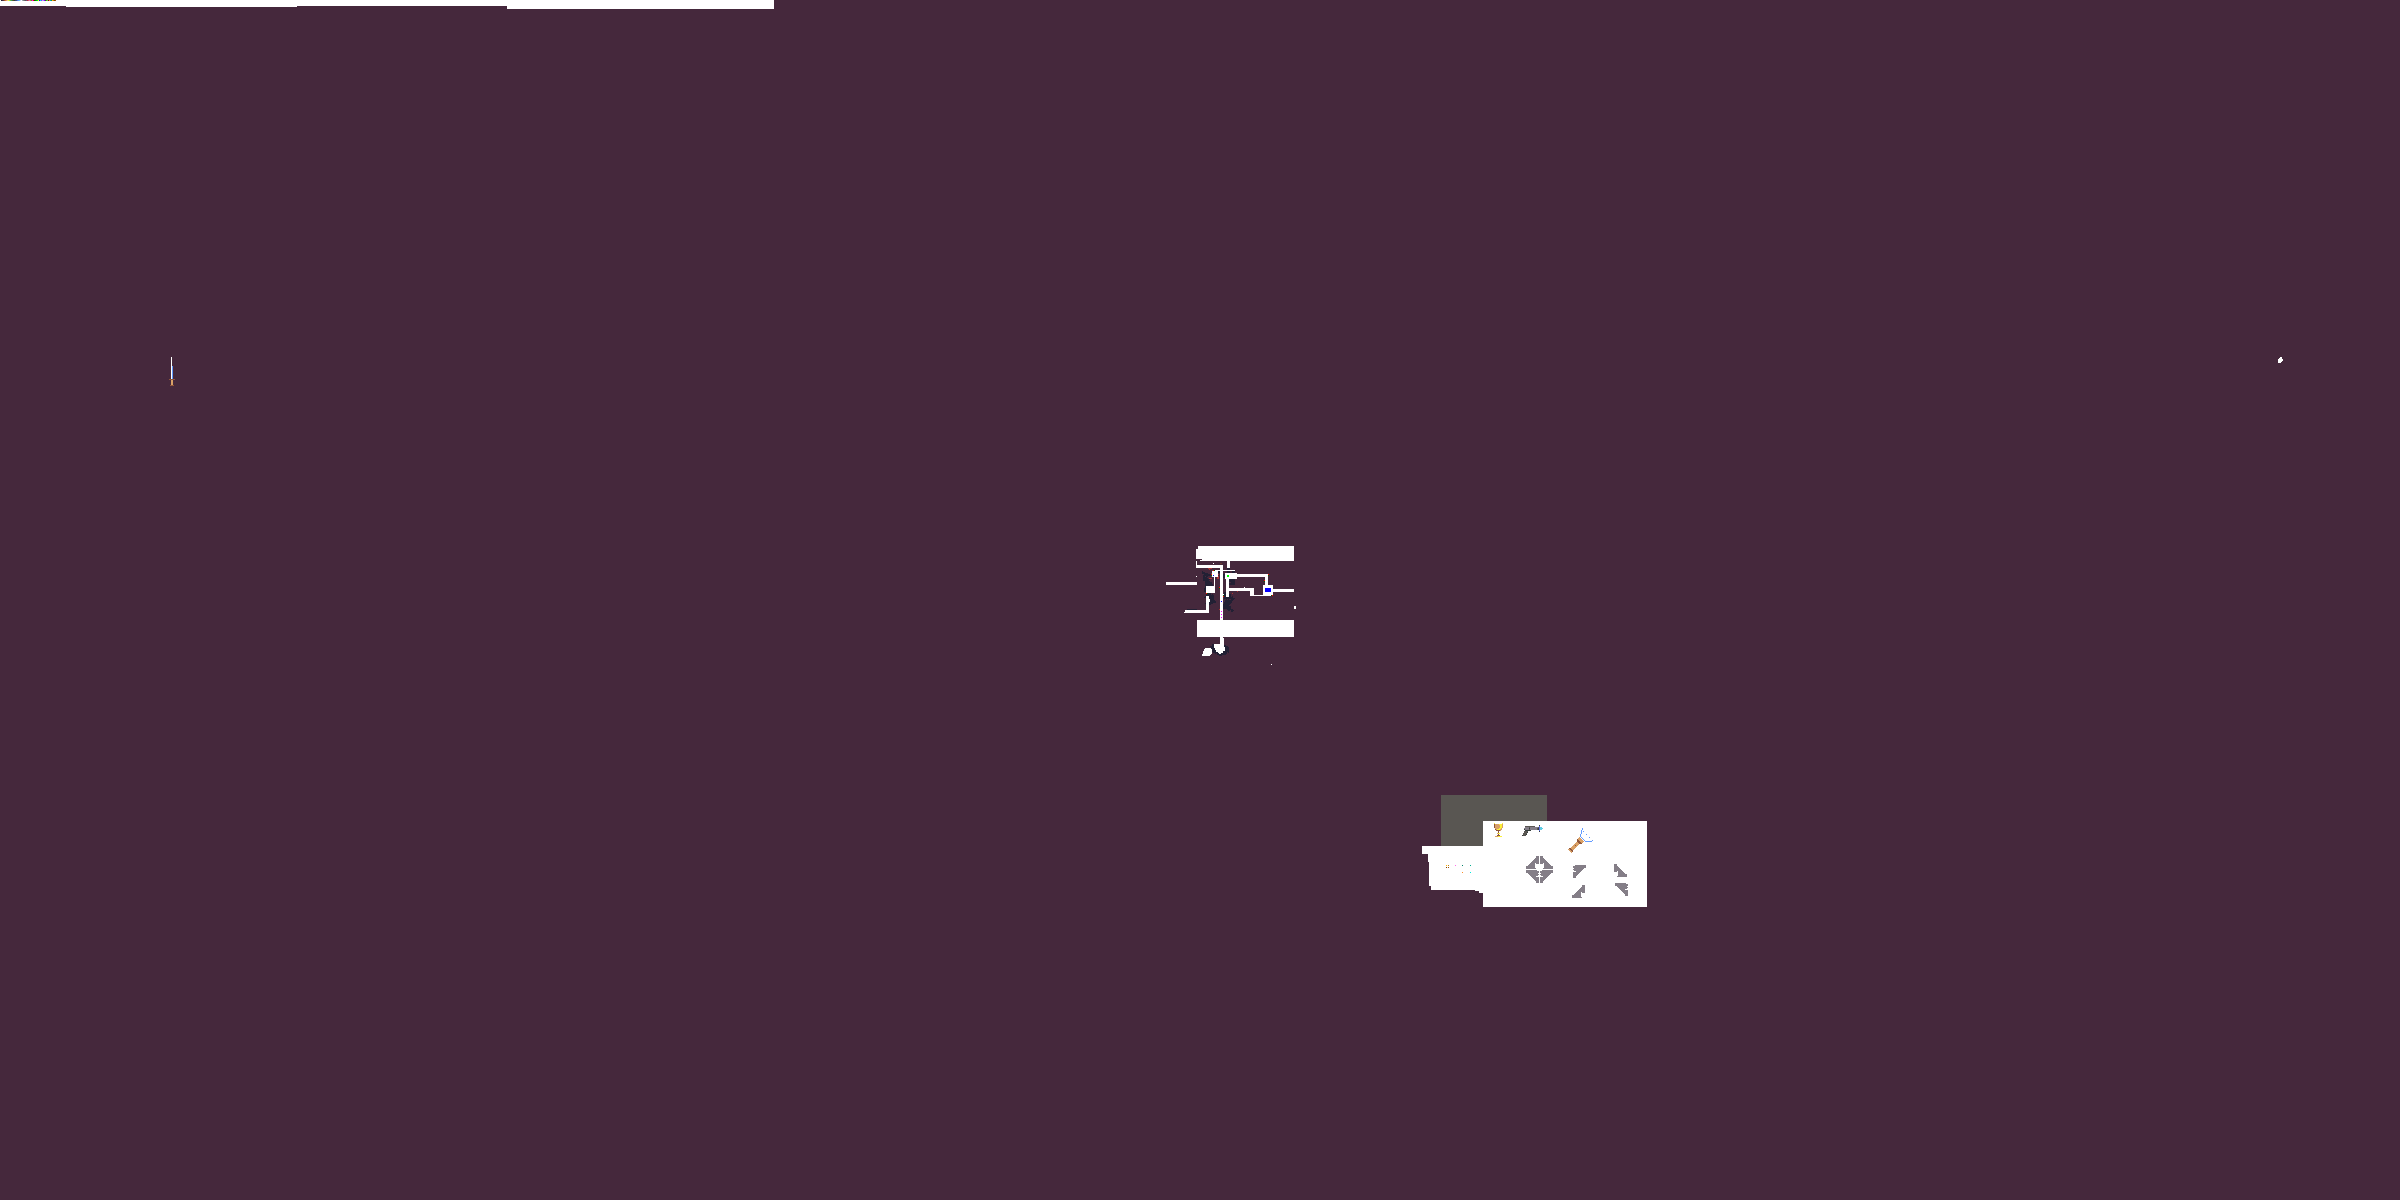
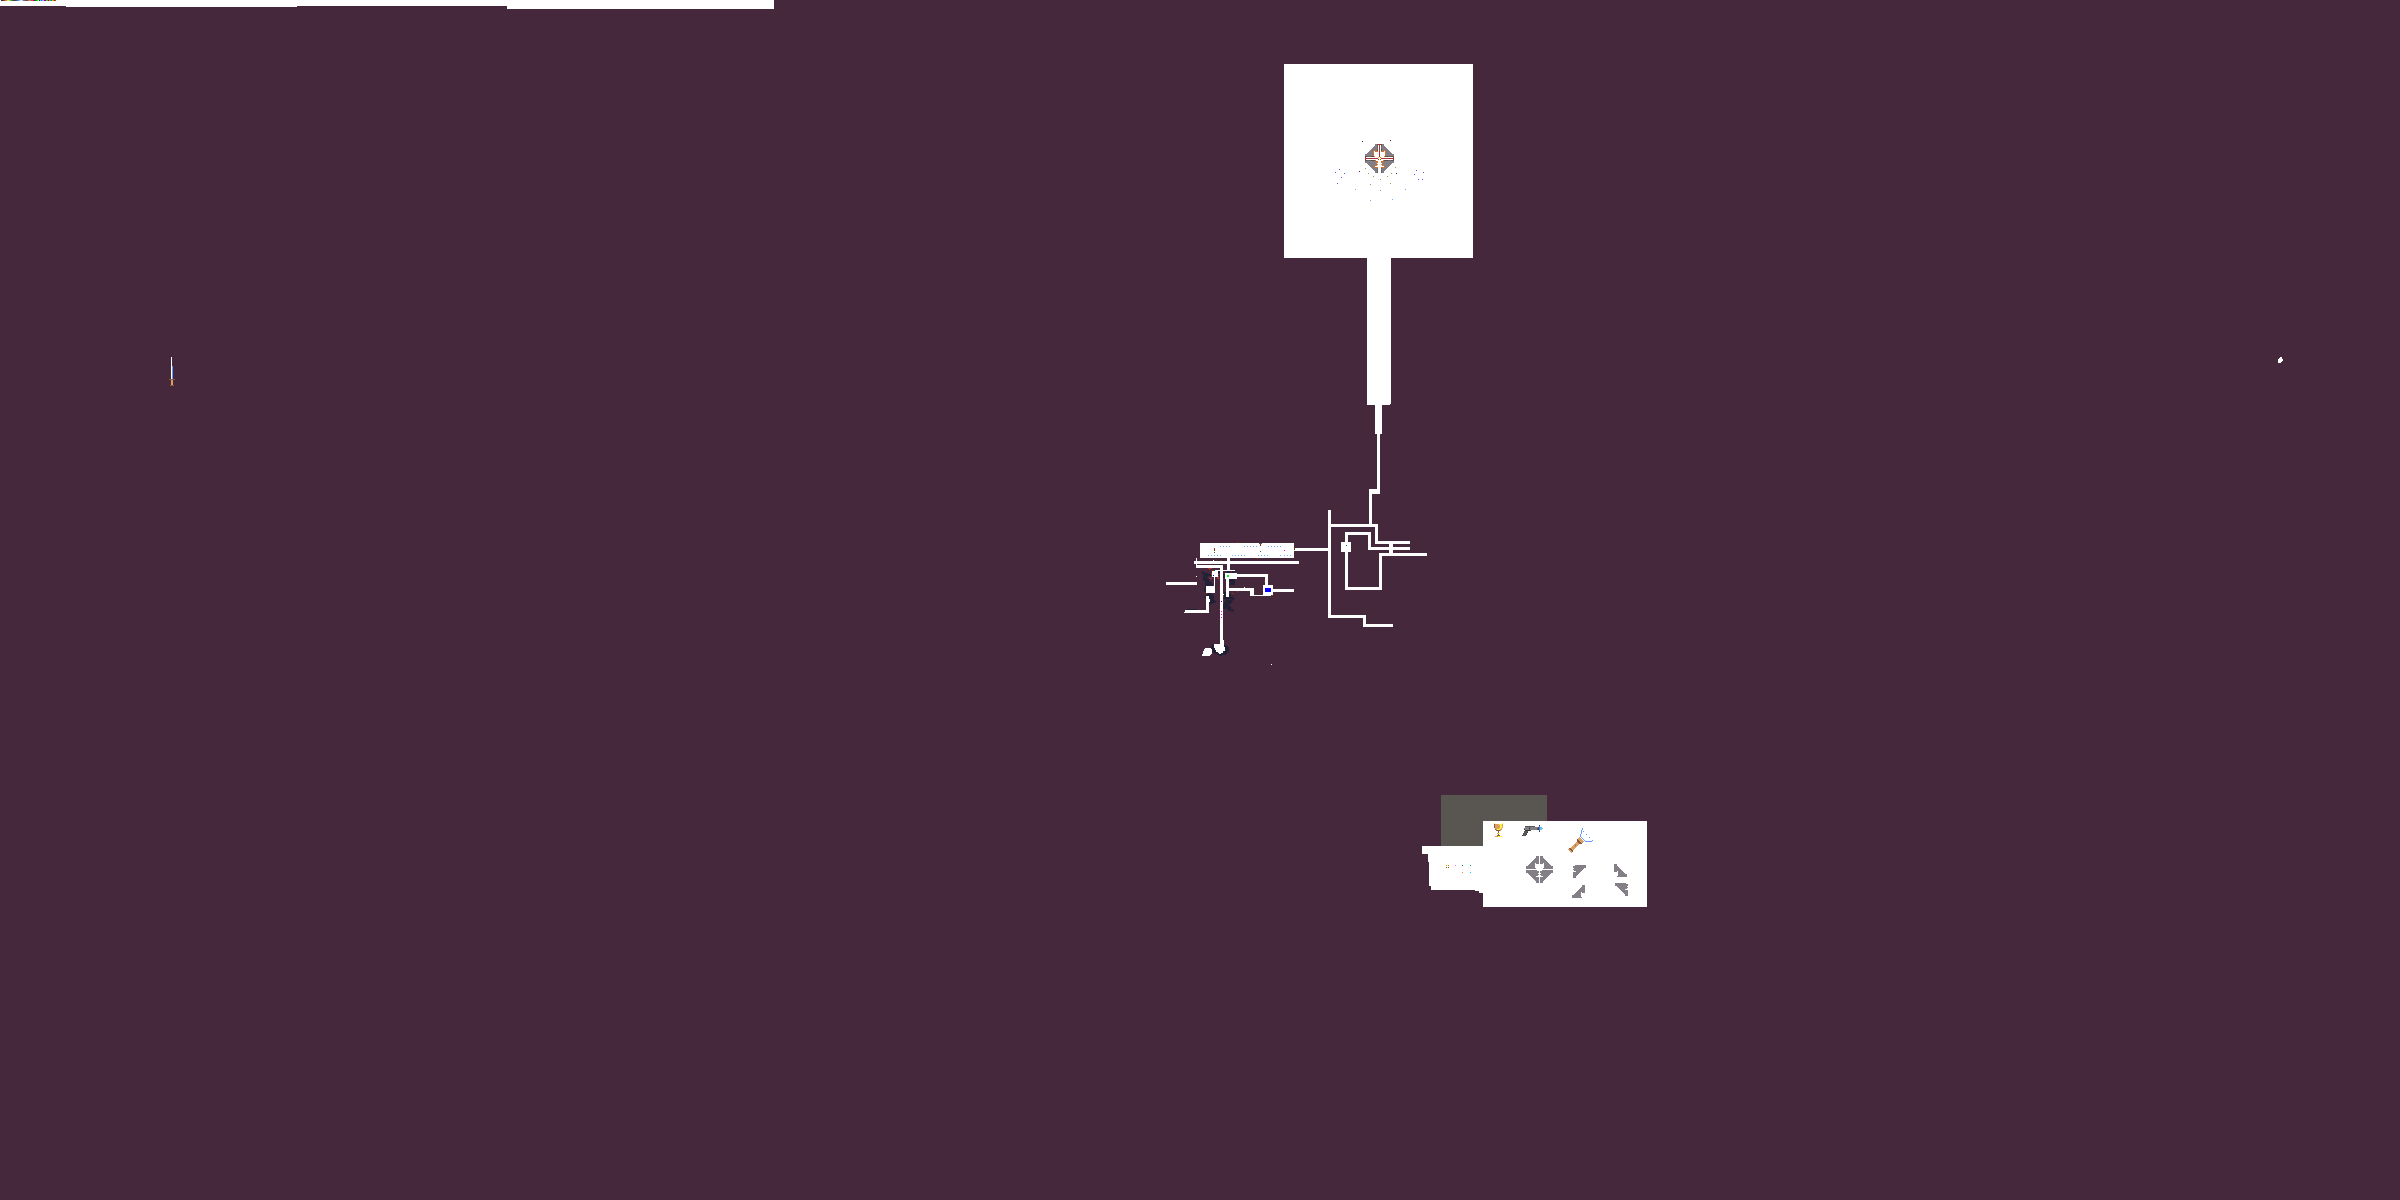
map updates, end game item adjustments

Changed region(s): [[0.5312, 0.0308, 0.625, 0.3392], [0.5, 0.4317, 0.5938, 0.555]]

diff --git a/js/entities/stationLR.js b/js/entities/stationLR.js
@@ -1,7 +1,7 @@
 class StationLR {
     constructor(x,y) {
-        this.x = x * 8;
-        this.y = y * 8;
+        this.x = x * 8 - 3;
+        this.y = y * 8 - 3;
         this.width = 18;
         this.height = 28;
         this.left = this.x;
@@ -11,8 +11,8 @@ class StationLR {
         this.canBeCollected = true;
 
         this.mapSprite = {
-            x: 1573,
-            y: 865,
+            x: 1381,
+            y: 160,
             width: 13,
             height: 13 
         }

diff --git a/js/entities/stationUL.js b/js/entities/stationUL.js
@@ -1,7 +1,7 @@
 class StationUL {
     constructor(x,y) {
-        this.x = x * 8;
-        this.y = y * 8;
+        this.x = x * 8 - 3;
+        this.y = y * 8 - 3;
         this.width = 30;
         this.height = 30;
         this.left = this.x;
@@ -11,8 +11,8 @@ class StationUL {
         this.canBeCollected = true;
 
         this.mapSprite = {
-            x: 1572,
-            y: 885,
+            x: 1365,
+            y: 144,
             width: 13,
             height: 13
         }

diff --git a/js/entities/stationUR.js b/js/entities/stationUR.js
@@ -1,7 +1,7 @@
 class StationUR {
     constructor(x,y) {
-        this.x = x * 8;
-        this.y = y * 8;
+        this.x = x * 8 - 3;
+        this.y = y * 8 - 3;
         this.width = 18;
         this.height = 28;
         this.left = this.x;
@@ -11,8 +11,8 @@ class StationUR {
         this.canBeCollected = true;
 
         this.mapSprite = {
-            x: 1614,
-            y: 864,
+            x: 1381,
+            y: 144,
             width: 13,
             height: 13
         }

diff --git a/js/entities/stationLL.js b/js/entities/stationLL.js
@@ -1,7 +1,7 @@
 class StationLL{
     constructor(x,y) {
-        this.x = x * 8;
-        this.y = y * 8;
+        this.x = x * 8 - 3;
+        this.y = y * 8 - 3;
         this.width = 18;
         this.height = 28;
         this.left = this.x;
@@ -11,8 +11,8 @@ class StationLL{
         this.canBeCollected = true;
 
         this.mapSprite = {
-            x: 1615,
-            y: 883,
+            x: 1365,
+            y: 160,
             width: 13,
             height: 13
         }
